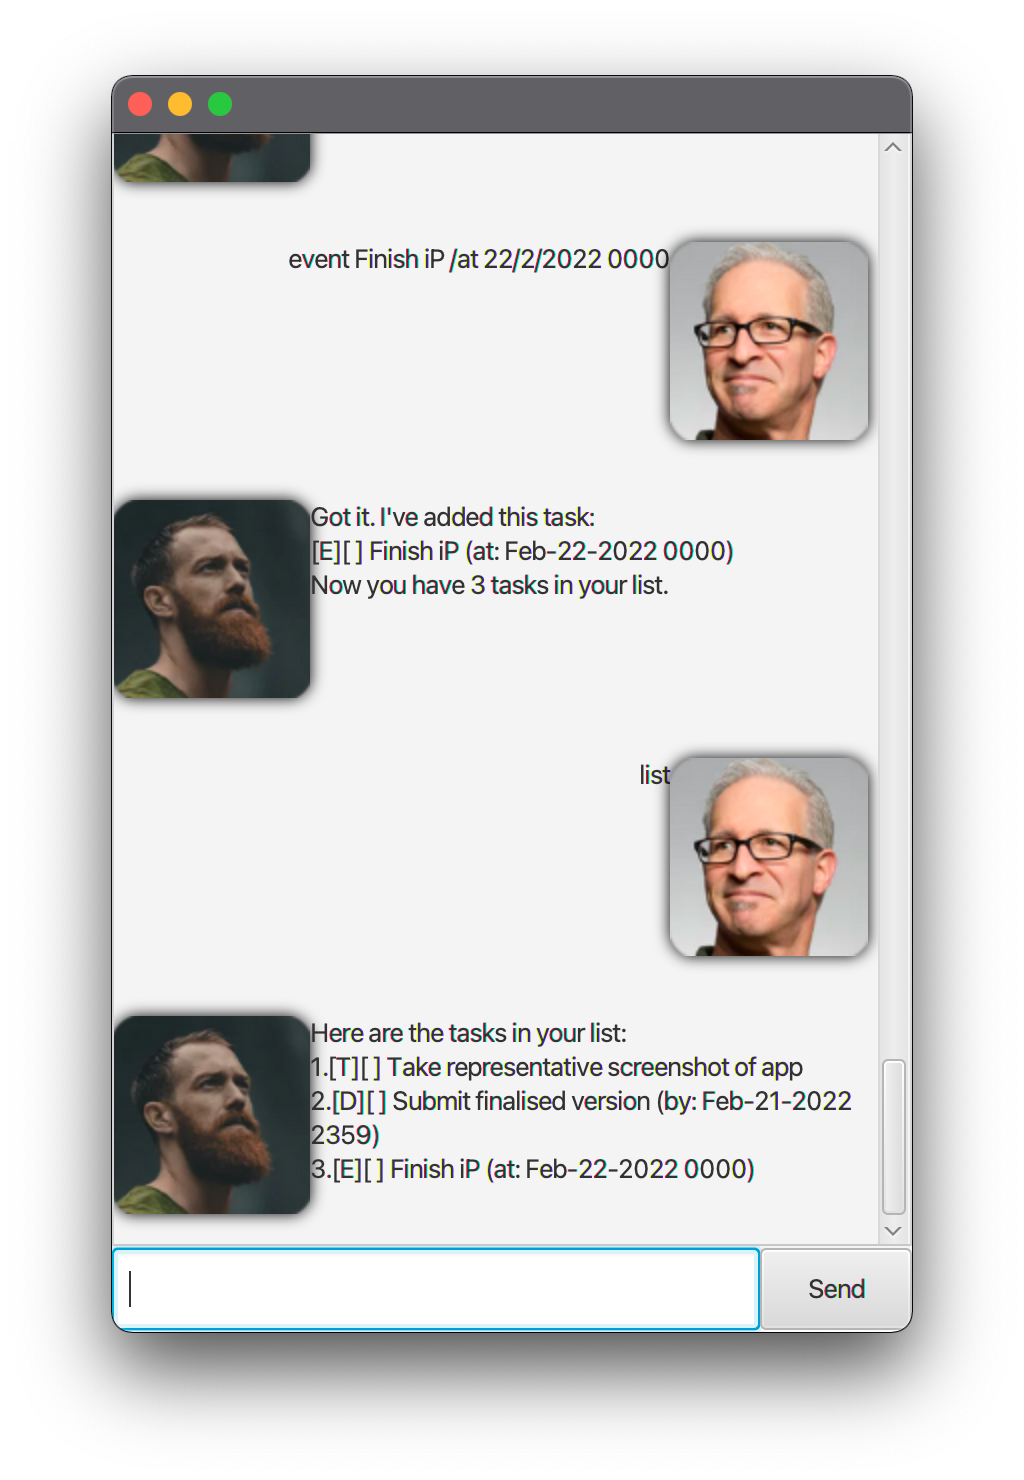
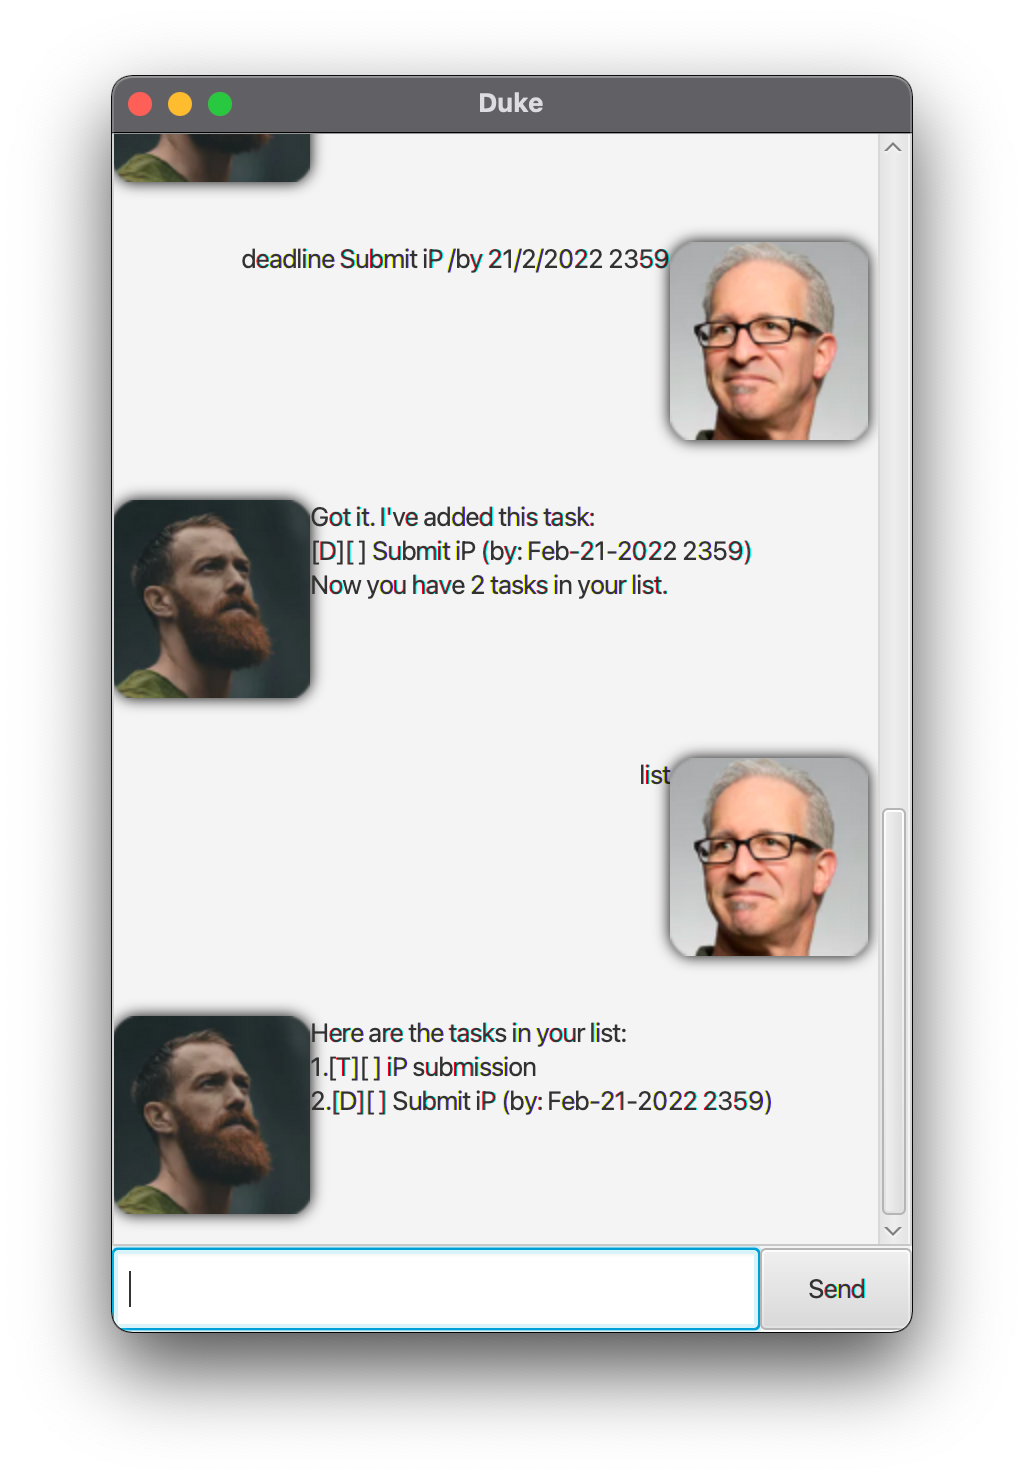
Edit README, add index constraint checks and update Ui screenshot

diff --git a/src/main/java/Duke/CommandList.java b/src/main/java/Duke/CommandList.java
@@ -125,6 +125,10 @@ public class CommandList {
         Task targetTask = list.get((index - 1));
         String output = "";
 
+        if (index > list.size() || index < 1) {
+            return "Invalid index! Please enter a valid index!";
+        }
+
         if (firstWord.equals("mark")) {
             output = targetTask.mark();
         } else {
@@ -146,6 +150,10 @@ public class CommandList {
     public String deleteTask(ArrayList<Task> list, String[] inputs, Storage storage) {
         String secondWord = inputs[1];
         int index = Integer.parseInt(secondWord);
+
+        if (index > list.size() || index < 1) {
+            return "Invalid index! Please enter a valid index!";
+        }
 
         Task targetTask = list.get((index - 1));
         list = targetTask.delete(list, (index - 1));
@@ -314,6 +322,10 @@ public class CommandList {
         String output = "";
         String secondWord = inputs[1];
         int index = Integer.parseInt(secondWord);
+
+        if (index > list.size() || index < 1) {
+            return "Invalid index! Please enter a valid index!";
+        }
 
         Task targetTask = list.get((index - 1));
         String taskType = targetTask.getTaskType();

diff --git a/src/main/java/Duke/Main.java b/src/main/java/Duke/Main.java
@@ -22,6 +22,7 @@ public class Main extends Application {
             AnchorPane ap = fxmlLoader.load();
             Scene scene = new Scene(ap);
             stage.setScene(scene);
+            stage.setTitle("Duke");
             fxmlLoader.<MainWindow>getController().setTestUi(duke);
             stage.show();
         } catch (IOException e) {

diff --git a/docs/README.md b/docs/README.md
@@ -1,29 +1,238 @@
-# User Guide
+# Duke User Guide
 
 ## Features 
 
-### Feature-ABC
+### List tasks
 
-Description of the feature.
+Keep track of various tasks in a task list
 
-### Feature-XYZ
+### Add tasks
 
-Description of the feature.
+Tasks can be added to the task list according to the task category (To-do, Event, Deadline)
+
+### Delete tasks
+
+Tasks can be deleted from the task list if added incorrectly
+
+### Update tasks
+
+Tasks can be updated from the task list to alter its description/date if its an event/deadline
+
+### Find tasks
+
+Tasks can be searched from the task list according to keyword provided
+
+### Mark/unmark tasks
+
+Tasks can be marked/unmarked from the task list once they are completed/uncompleted
 
 ## Usage
 
-### `Keyword` - Describe action
+### `list` - list all tasks saved in task list
 
-Describe the action and its outcome.
+Returns a list of tasks the user has saved in the task list
 
 Example of usage: 
 
-`keyword (optional arguments)`
+`list`
 
 Expected outcome:
 
-Description of the outcome.
+Duke gets the list of tasks saved in ```Storage``` and returns the list
 
 ```
-expected output
+Here are the tasks in your list:
+1.[T][] iP submission
+2.[D][] Submit iP (by: Feb-21-2022 2359)
+```
+
+### `commands` - list all commands available on Duke
+
+Returns a list of commands and how to use them
+
+Example of usage:
+
+`commands`
+
+Expected outcome:
+
+Duke gets the list of commands available and returns the list
+
+```
+Here are the commands as well as their usage:
+----------------------------------------------
+list: lists all tasks in task list
+...
+```
+
+### `todo` - Adds a To-do task to the task list
+
+User enters description for To-Do task to add into task list
+
+Example of usage:
+
+`todo iP submission`
+
+Expected outcome:
+
+Duke creates a To-Do task and adds it into the task list before returning how many tasks are inside the task list currently
+
+```
+Got it. I've added this task:
+[T][] iP submission
+Now you have 2 tasks in your list.
+```
+
+### `event` - Adds an Event task to the task list
+
+User enters description for Event task as well as the date of the Event to add into task list
+
+Example of usage:
+
+`event Finished iP /at 22/2/2022 0000`
+
+Expected outcome:
+
+Duke creates an Event task and adds it into the task list before returning how many tasks are inside the task list currently
+
+```
+Got it. I've added this task:
+[E][] Finished iP (at: Feb-22-2022 0000)
+Now you have 2 tasks in your list.
+```
+
+### `deadline` - Adds a Deadline task to the task list
+
+User enters description for Deadline task as well as the date of the Deadline to add into task list
+
+Example of usage:
+
+`deadline Submit iP /by 21/2/2022 2359`
+
+Expected outcome:
+
+Duke creates a Deadline task and adds it into the task list before returning how many tasks are inside the task list currently
+
+```
+Got it. I've added this task:
+[D][] Submit iP (by: Feb-21-2022 2359)
+Now you have 2 tasks in your list.
+```
+
+### `mark` - Marks a task as done
+
+User enters index of task to be marked and Duke will mark the given task as done
+
+Example of usage:
+
+`mark 1`
+
+Expected outcome:
+
+Duke finds the task according to the index given in the list and marks it as done if it is currently not done. If the task is already done, Duke will inform the user that the specified task has already been completed
+
+```
+Nice! I've marked this task as done:
+[D][X] Submit iP (by: Feb-21-2022 2359)
+```
+
+### `ummark` - Un-marks a task as done
+
+User enters index of task to be un-marked and Duke will un-mark the given task as done
+
+Example of usage:
+
+`unmark 1`
+
+Expected outcome:
+
+Duke finds the task according to the index given in the list and un-marks it if it is currently done. If the task is not done, Duke will inform the user that the specified task has not been completed yet
+
+```
+Ok, I've marked this task as not done yet:
+[D][] Submit iP (by: Feb-21-2022 2359)
+```
+
+### `delete` - delete specified task from task list
+
+User enters index of task to be deleted and Duke will remove the task specified
+
+Example of usage:
+
+`delete 1`
+
+Expected outcome:
+
+Duke finds the task according to the index given in the list and deletes it before informing the user how many tasks are left in the list
+
+```
+Noted, I've removed this task:
+[D][] Submit iP (by: Feb-21-2022 2359)
+Now you have 2 tasks in your list.
+```
+
+### `find` - returns tasks that matches keyword saved in task list
+
+Returns a list of tasks matching the keyword specified by the User
+
+Example of usage:
+
+`find iP`
+
+Expected outcome:
+
+Duke gets the list of tasks saved in ```Storage``` and returns the list matching the keyword provided. Take note that the keyword is case-sensitive so ```find iP``` and ```find ip``` will yield different results
+
+```
+Here are the matching tasks in your list:
+1.[T][] iP submission
+```
+
+### `update` - update specified task from task list
+
+User enters index of task to be updated as well as it's description and Duke will update the task specified with its new description
+
+Example of usage:
+
+`update 1 Submit iP`
+
+Expected outcome:
+
+Duke updates the specified task and updates the task list
+
+```
+Noted, I've updated this task:
+1.[T][] submit iP
+```
+
+### `clear all` - removes all tasks saved in task list
+
+Removes the list of tasks the user has saved in the task list
+
+Example of usage:
+
+`clear all`
+
+Expected outcome:
+
+Duke removes all the tasks stored in the list of tasks saved in ```Storage```
+
+```
+Noted. All tasks have been cleared!
+```
+
+### `bye` - exits the Duke program
+
+Prints goodbye message and exits the program after a short buffer
+
+Example of usage:
+
+`bye`
+
+Expected outcome:
+
+Duke returns a goodbye message before closing the app
+
+```
+Bye. Hope to see you again soon!
 ```
